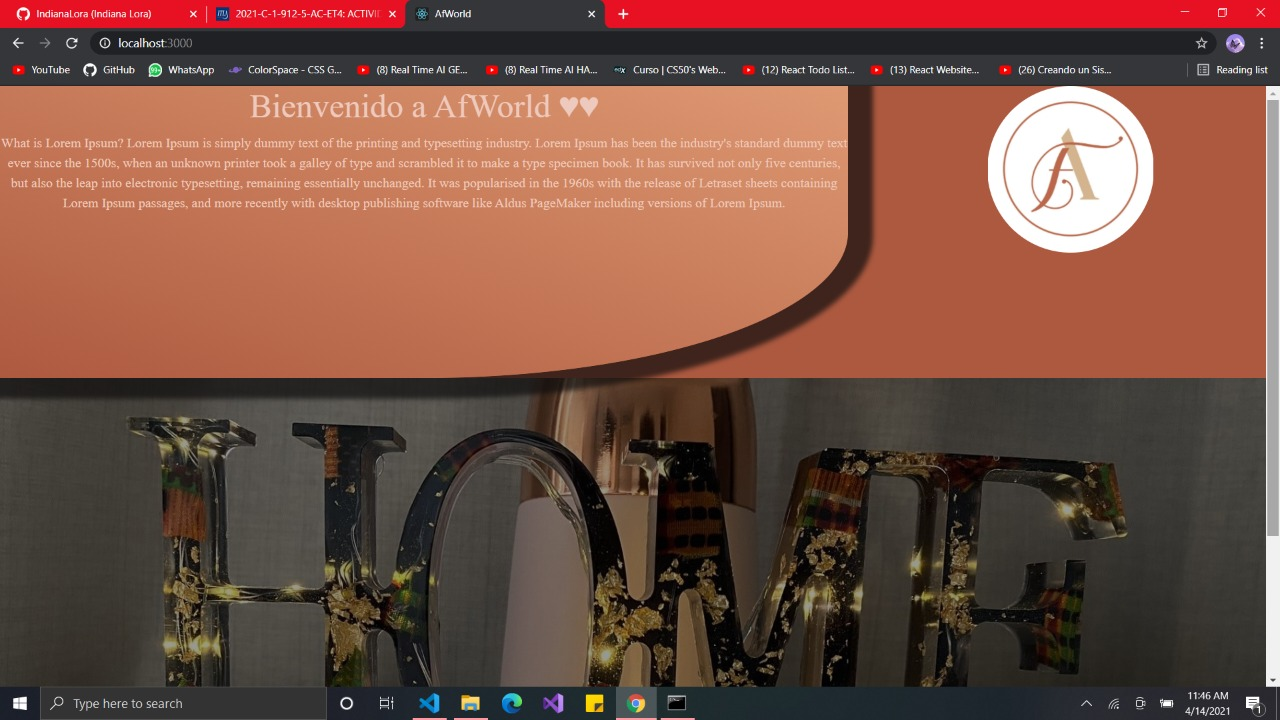
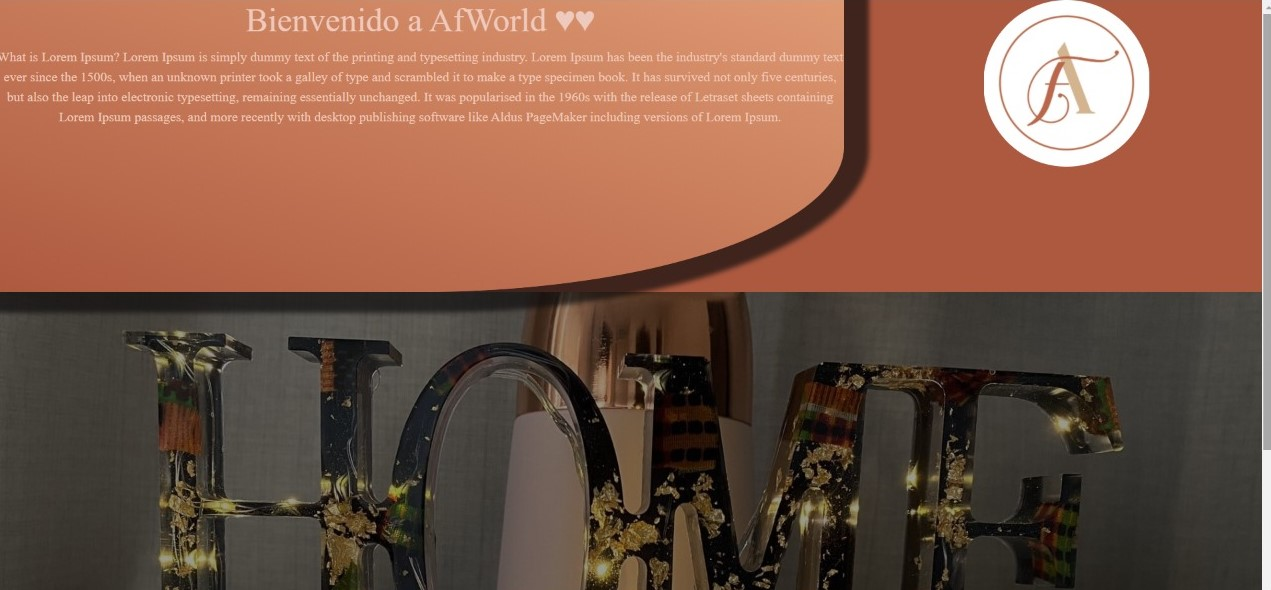
started to design for mobile

diff --git a/index.html b/index.html
@@ -28,7 +28,7 @@
  
   <br />
   <div class="container">
-    <div class="presentation">
+    <div class="presentation , col-3 col-s-3">
       <h1>Hi there !! <img src="./img/wh.gif" id="w-hand" /> im Indiana Lora</h1>
       <div class="paragraph">
         <p>
@@ -42,7 +42,7 @@
       <img src="./img/babyMe.png" id="indiana" />
     </div>
   
-    <div class="skills">
+    <div class="skills , col-6 col-s-9">
       <hr />
       <h2 id="skills-text">Work skills</h2>
       <img src="./img/skills2.gif" id="img-skills" />
@@ -51,31 +51,33 @@
       </div>
       <hr />
     </div>
+    <div class="col-3 col-s-12">
     <div id="proyect-bolsa">
       <div class="card">
-        sadasd
+        React proyect
       </div>
     </div>
     <div id="proyect-Af">
       <div class="card">
-        sadasd
+        React proyect
       </div>
     </div>
     <div id="proyect-Itla">
       <div class="card">
-        sadasd
+        C# proyect
       </div>
     </div>
     <div id="proyect-Elecciones">
       <div class="card">
-        sadasd
+        Php proyect
       </div>
     </div>
     <div id="proyect-Pokedex">
       <div class="card">
-        sadasd
+        Php proyect
       </div>
     </div>
+  </div>
   </div>
   <script src="js/index.js"></script>
   <script src="js/proyect.js"></script>

diff --git a/css/style.css b/css/style.css
@@ -3,6 +3,24 @@ body {
   background-color: rgb(0, 0, 0);
   color: white;
 }
+@media only screen and (max-width: 768px) {
+  /* For mobile phones: */
+  [class*="col-"] {
+    width: 100%;
+  }
+}
+@media only screen and (max-width: 600px) {
+  div.presentation img {
+    display: none;
+  }
+}
+@media only screen and (max-width: 600px) {
+  div.skills {
+    margin-top: 200%;
+  }
+}
+
+
 .container {
   margin: auto;
   overflow: hidden;
@@ -93,6 +111,7 @@ body {
   border-radius: 5px;
   box-shadow: 5px 20px 16px 2px rgb(24, 2, 2, 0.8);
 }
+
 #skills {
   display: flex;
   margin-left: 35%;
